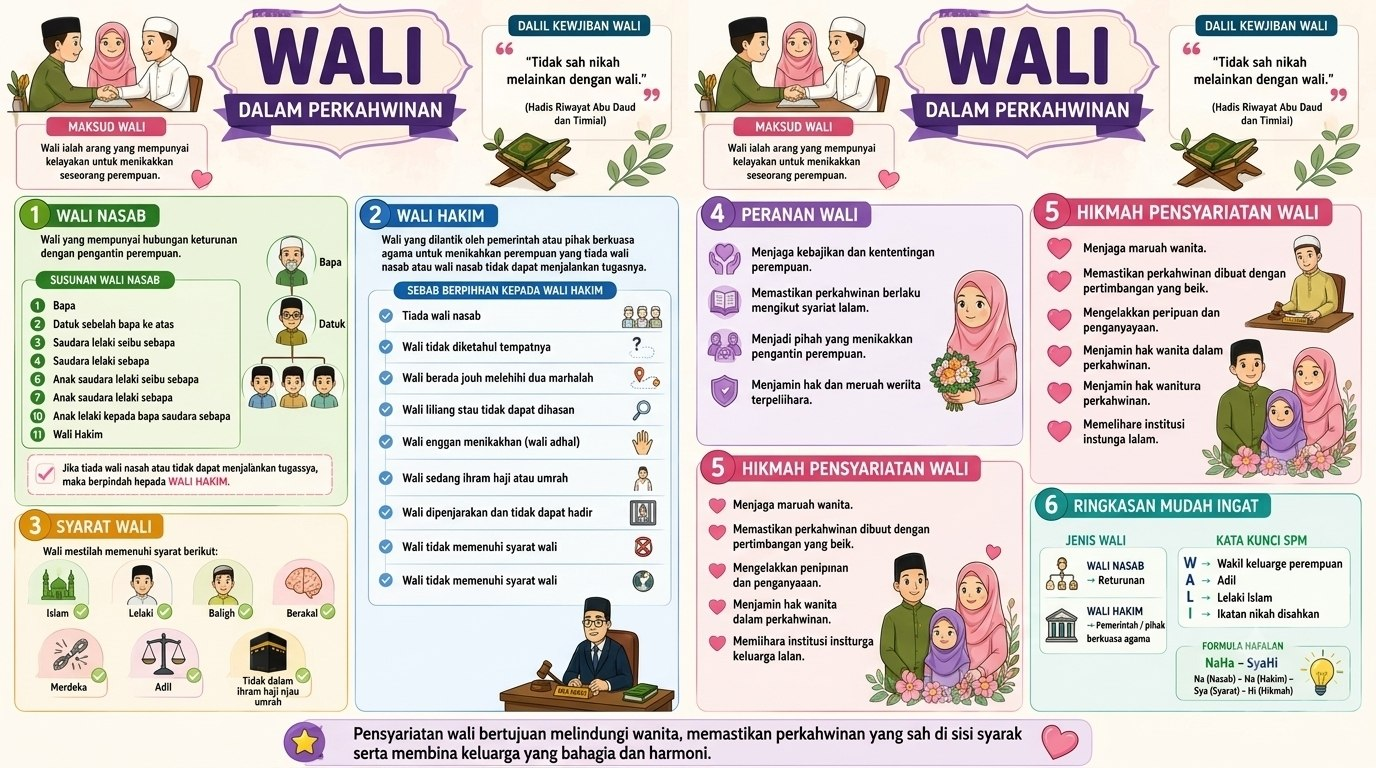
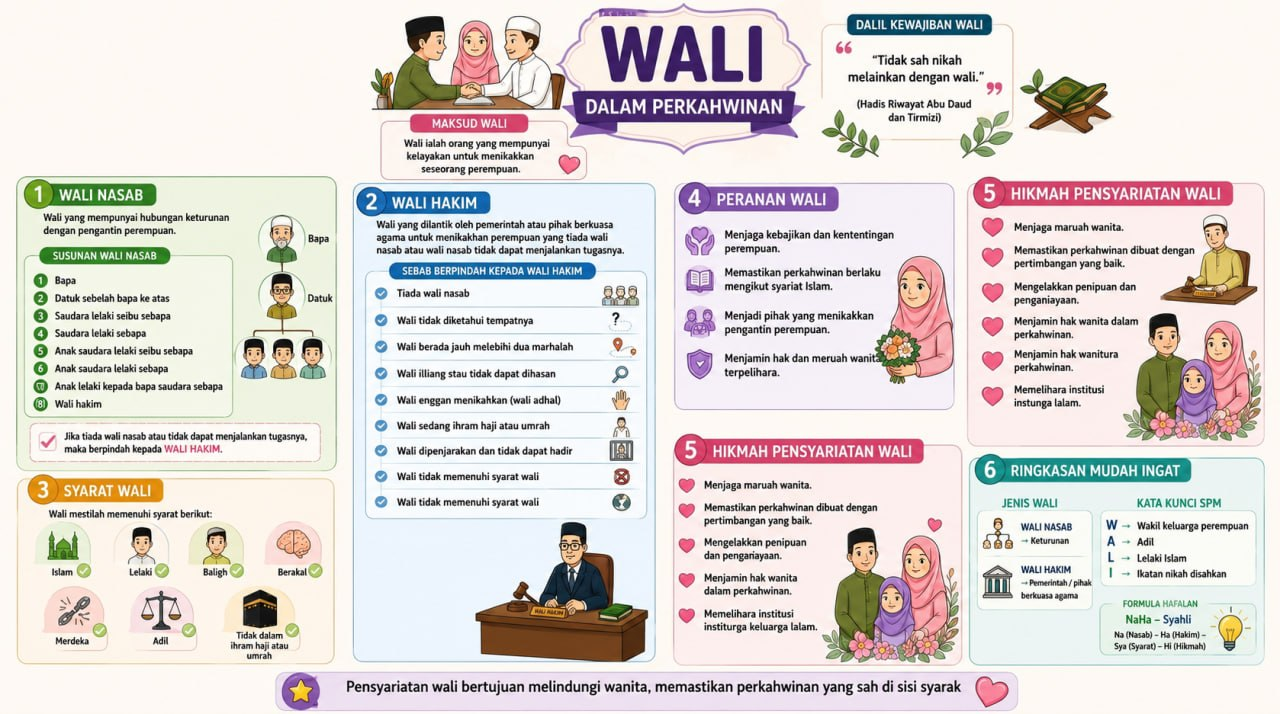
update

diff --git a/app/page.tsx b/app/page.tsx
@@ -41,7 +41,7 @@ const akadIlmuList = [
         type: 'Video Powtoon',
         badgeColor: 'bg-blue-500/10 text-blue-600 dark:text-blue-400 border-blue-500/20',
         description: 'Menjelaskan definisi perkahwinan dari segi bahasa dan syarak beserta dalil pensyariatan naqli.',
-        videoUrl: '',
+        videoUrl: 'https://www.youtube.com/watch?v=-ru6caprSwo',
         tag: 'Powtoon Video'
       },
       {
@@ -102,7 +102,7 @@ const akadIlmuList = [
         type: 'Video Green Screen',
         badgeColor: 'bg-teal-500/10 text-teal-600 dark:text-teal-400 border-teal-500/20',
         description: 'Penerangan komprehensif tentang pembahagian hukum berkahwin serta susunan dan jenis wali (nasab & hakim).',
-        videoUrl: '',
+        videoUrl: 'https://www.youtube.com/watch?v=31mSP3iREgE',
         tag: 'Green Screen Video'
       },
       {
@@ -1206,12 +1206,6 @@ interface Question {
 }
 
 function NikahEduPage() {
-  const [showQuiz, setShowQuiz] = useState(false);
-  const [quizStep, setQuizStep] = useState(0);
-  const [selectedAnswer, setSelectedAnswer] = useState<number | null>(null);
-  const [score, setScore] = useState(0);
-  const [quizFinished, setQuizFinished] = useState(false);
-
   const links = [
     {
       title: 'Portal e-Syariah Malaysia',
@@ -1238,65 +1232,6 @@ function NikahEduPage() {
       category: 'Kehakiman & Fiqh'
     }
   ];
-
-  const questions: Question[] = [
-    {
-      id: 1,
-      question: 'Apakah hukum asal perkahwinan di dalam syariat Islam?',
-      options: ['Wajib', 'Sunat', 'Harus', 'Haram'],
-      correct: 2 // Harus / Sunat depends on school, but standard SPM book: Harus (Hukum asal nikah ialah Harus)
-    },
-    {
-      id: 2,
-      question: 'Manakah antara berikut yang BUKAN merupakan sebahagian daripada 5 rukun nikah?',
-      options: ['Bakal Suami', 'Wali', 'Mas Kahwin (Mahar)', 'Sighah (Ijab & Qabul)'],
-      correct: 2 // Mas Kahwin is not rukun, it is syarat/perkara wajib
-    },
-    {
-      id: 3,
-      question: 'Siapakah yang tergolong dalam kumpulan mahram selamanya (muabbad) disebabkan keturunan?',
-      options: ['Ibu Mertua', 'Kakak Kandung', 'Adik ipar perempuan', 'Isteri orang lain'],
-      correct: 1 // Kakak Kandung
-    },
-    {
-      id: 4,
-      question: 'Bilakah wali hakim boleh digunakan untuk menikahkan seseorang perempuan?',
-      options: [
-        'Apabila bapa kandung menentang pilihan anak tanpa sebab syarak (wali mujbir enggan)',
-        'Apabila tiada wali nasab langsung atau wali nasab berada jauh melebihi 2 marhalah',
-        'Apabila pengantin perempuan berumur bawah 18 tahun',
-        'Jawapan A dan B adalah betul'
-      ],
-      correct: 3 // Both A and B are valid reasons for Wali Hakim
-    }
-  ];
-
-  const handleStartQuiz = () => {
-    setShowQuiz(true);
-    setQuizStep(0);
-    setSelectedAnswer(null);
-    setScore(0);
-    setQuizFinished(false);
-  };
-
-  const handleOptionSelect = (optionIdx: number) => {
-    setSelectedAnswer(optionIdx);
-  };
-
-  const handleNext = () => {
-    if (selectedAnswer === null) return;
-
-    if (selectedAnswer === questions[quizStep].correct) {
-      setScore(prev => prev + 1);
-    }
-
-    setSelectedAnswer(null);
-    if (quizStep + 1 < questions.length) {
-      setQuizStep(prev => prev + 1);
-    } else {
-      setQuizFinished(true);
-    }
-  };
 
   return (
     <div className="space-y-10 animate-fade-in relative overflow-hidden">
@@ -1357,109 +1292,30 @@ function NikahEduPage() {
             <h3 className="font-serif text-xl font-bold">Selamat Jawab</h3>
           </div>
 
-          {!showQuiz ? (
-            <Card className="p-8 border-2 border-primary/20 bg-gradient-to-br from-primary/5 to-accent/5 flex flex-col items-center justify-center text-center space-y-4">
-              <div className="w-14 h-14 rounded-full bg-primary/10 flex items-center justify-center text-primary">
-                <UserCheck className="w-7 h-7" />
-              </div>
-              <h4 className="font-serif text-xl font-bold text-foreground">Uji Kefahaman Fiqh Nikah</h4>
-              <p className="text-xs text-muted-foreground max-w-sm leading-relaxed">
-                Jawab 4 soalan objektif ringkas berasaskan sukatan Pendidikan Islam Tingkatan 5 untuk menilai sejauh mana pemahaman anda.
+          <Card className="p-8 border-2 border-primary/20 bg-gradient-to-br from-primary/5 to-accent/5 flex flex-col items-center justify-center text-center space-y-5 min-h-[350px] relative overflow-hidden floral-card">
+            <FloralCorner className="top-0 right-0 rotate-90" />
+            <FloralCorner className="bottom-0 left-0 -rotate-90" />
+            
+            <div className="w-16 h-16 rounded-full bg-primary/10 flex items-center justify-center text-primary relative z-10">
+              <ClipboardList className="w-8 h-8" />
+            </div>
+            
+            <div className="space-y-2 relative z-10">
+              <h4 className="font-serif text-xl font-bold text-foreground">Kuiz Perkara Asas Perkahwinan Islam</h4>
+              <p className="text-xs text-muted-foreground max-w-sm leading-relaxed mx-auto">
+                Uji kefahaman anda mengenai hukum, rukun, dan dalil perkahwinan Islam menerusi aktiviti interaktif di platform Educaplay.
               </p>
-              <Button onClick={handleStartQuiz} className="bg-primary hover:bg-primary/90 text-primary-foreground font-semibold px-6 rounded-xl">
-                Mula Menjawab
-              </Button>
-            </Card>
-          ) : (
-            <Card className="p-6 border-2 border-primary/20 flex flex-col justify-between min-h-[350px]">
-              {/* Quiz Results */}
-              {quizFinished ? (
-                <div className="flex flex-col items-center justify-center text-center space-y-6 py-6 my-auto">
-                  <div className="w-16 h-16 rounded-full bg-emerald-500/10 flex items-center justify-center text-emerald-600 dark:text-emerald-400">
-                    <CheckCircle2 className="w-10 h-10" />
-                  </div>
-                  <div>
-                    <h4 className="font-serif text-2xl font-bold text-foreground">Kuiz Selesai!</h4>
-                    <p className="text-sm text-muted-foreground mt-1">Terima kasih kerana mencuba.</p>
-                  </div>
+            </div>
 
-                  <div className="p-4 bg-muted/50 rounded-2xl w-full max-w-xs border">
-                    <span className="text-xs text-muted-foreground font-bold">SKOR ANDA:</span>
-                    <h5 className="font-serif text-4xl font-extrabold text-primary mt-1">
-                      {score} / {questions.length}
-                    </h5>
-                    <p className="text-[11px] text-muted-foreground mt-2">
-                      {score === questions.length ? 'Cemerlang! Anda sangat bersedia.' : 'Teruskan mengulang kaji video & nota di tab Isi Kandungan!'}
-                    </p>
-                  </div>
-
-                  <div className="flex gap-3 w-full max-w-xs">
-                    <Button onClick={handleStartQuiz} variant="outline" className="flex-1 rounded-xl">
-                      Cuba Lagi
-                    </Button>
-                    <Button onClick={() => setShowQuiz(false)} className="flex-1 bg-primary text-primary-foreground rounded-xl">
-                      Tutup
-                    </Button>
-                  </div>
-                </div>
-              ) : (
-                /* Question Layout */
-                <div className="flex flex-col h-full justify-between gap-4">
-                  {/* Progress Header */}
-                  <div>
-                    <div className="flex justify-between items-center text-xs font-bold text-muted-foreground mb-2">
-                      <span>SOALAN {quizStep + 1} DARI {questions.length}</span>
-                      <span className="text-primary">{Math.round(((quizStep + 1) / questions.length) * 100)}%</span>
-                    </div>
-                    <Progress value={((quizStep + 1) / questions.length) * 100} className="h-1.5" />
-                  </div>
-
-                  {/* Question */}
-                  <div className="py-2">
-                    <p className="font-serif text-lg font-bold text-foreground leading-relaxed">
-                      {questions[quizStep].question}
-                    </p>
-                  </div>
-
-                  {/* Options */}
-                  <div className="space-y-2.5">
-                    {questions[quizStep].options.map((option, idx) => (
-                      <button
-                        key={idx}
-                        onClick={() => handleOptionSelect(idx)}
-                        className={`w-full text-left p-3.5 rounded-xl border text-xs md:text-sm font-medium transition-all ${
-                          selectedAnswer === idx
-                            ? 'bg-primary/10 border-primary text-primary ring-1 ring-primary'
-                            : 'bg-card border-border hover:bg-muted/40 text-foreground'
-                        }`}
-                      >
-                        <div className="flex items-center gap-3">
-                          <span className={`w-5 h-5 rounded-full border flex items-center justify-center text-[10px] font-bold ${
-                            selectedAnswer === idx ? 'bg-primary border-primary text-primary-foreground' : 'border-muted-foreground/40 text-muted-foreground'
-                          }`}>
-                            {String.fromCharCode(65 + idx)}
-                          </span>
-                          {option}
-                        </div>
-                      </button>
-                    ))}
-                  </div>
-
-                  {/* Footer Action */}
-                  <div className="pt-4 border-t flex justify-end">
-                    <Button 
-                      onClick={handleNext} 
-                      disabled={selectedAnswer === null}
-                      className="bg-primary hover:bg-primary/90 text-primary-foreground font-semibold px-6 rounded-xl"
-                    >
-                      {quizStep + 1 === questions.length ? 'Selesai' : 'Seterusnya'}
-                    </Button>
-                  </div>
-                </div>
-              )}
-            </Card>
-          )}
-
+            <a
+              href="https://www.educaplay.com/learning-resources/29532851-kuiz_perkara_asas_perkahwinan_islam.html"
+              target="_blank"
+              rel="noopener noreferrer"
+              className="inline-flex items-center gap-2 px-6 py-3 rounded-xl bg-primary hover:bg-primary/90 text-primary-foreground font-semibold shadow-md transition-all hover:scale-[1.02] active:scale-95 z-10"
+            >
+              Mula Kuiz Educaplay <ExternalLink className="w-4 h-4" />
+            </a>
+          </Card>
         </div>
 
       </div>